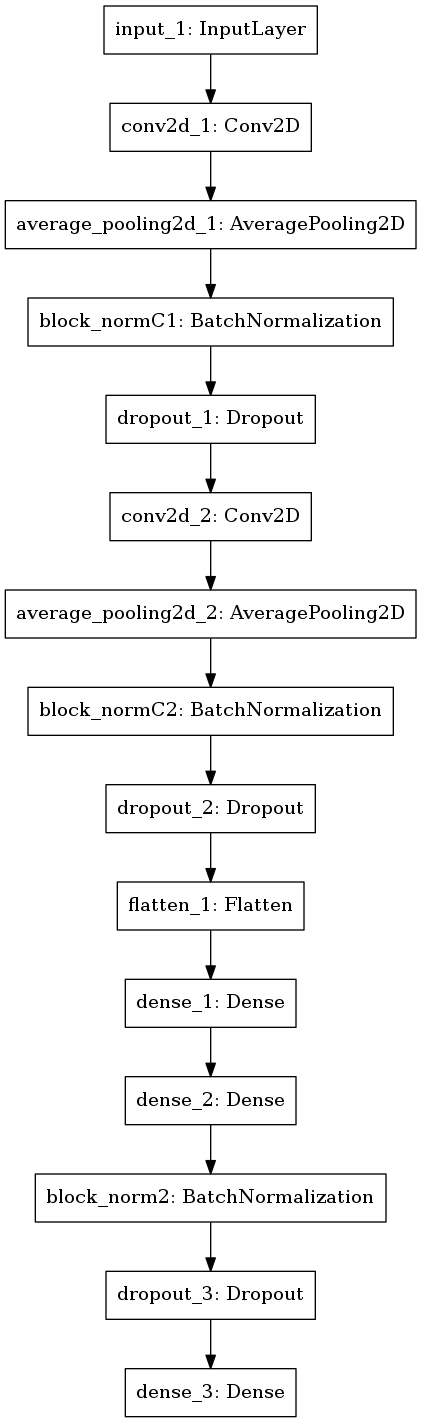
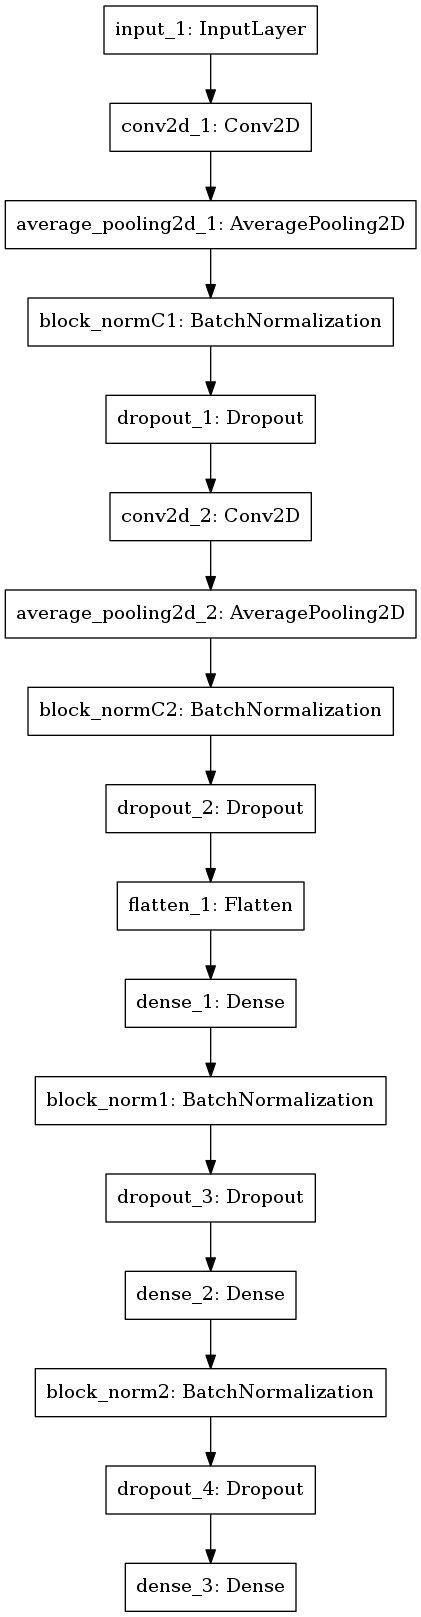
updates and changes

diff --git a/mnist_lenet5_class.py b/mnist_lenet5_class.py
@@ -25,9 +25,11 @@ def get_available_gpus():
 	local_device_protos = K.get_session().list_devices()
 	return np.array([x.name for x in local_device_protos if x.device_type == 'GPU'])
 
+def top_2_categorical_accuracy(y_true, y_pred):
+    return metrics.top_k_categorical_accuracy(y_true, y_pred, k=2) 
 
 batch_size = 32 # in each iteration, we consider 128 training examples at once
-num_epochs = 50 # we iterate twelve times over the entire training set
+num_epochs = 25 # we iterate twelve times over the entire training set
 num_epochs1 = 25 # epochs for the pre-training
 kernel_size = 3 # we will use 3x3 kernels throughout
 pool_size = 2 # we will use 2x2 pooling throughout
@@ -59,7 +61,7 @@ c_test = y_test
 y_train = np_utils.to_categorical(y_train, num_classes) # One-hot encode the labels
 y_test = np_utils.to_categorical(y_test, num_classes) # One-hot encode the labels
 
-reps = 11
+reps = 5
 ssplit = np.array([128,256,512,1024,3200,6400,60000]) # number of examples
 oweights = np.array([1,1,1,0.5,0.5,0.5,0.3])
 nsplit = ssplit.shape[0]
@@ -70,6 +72,13 @@ gpus = get_available_gpus().size
 #first model - number/finger association
 matrix_train = y_train
 matrix_test = y_test
+
+inp2 = Input(shape=(10,))
+out2 = Dense(num_classes, kernel_initializer='glorot_uniform', bias_initializer='zeros', activation='softmax', name='class_output2')(inp2) # Output softmax layer
+model2 = Model(inputs=inp2,outputs=out2)	
+model2.compile(loss='categorical_crossentropy',optimizer='adam',metrics=['accuracy'])
+model2.fit(matrix_train,y_train,epochs=5,shuffle=True,verbose=1)
+out_weights2 = model2.get_layer('class_output2').get_weights()
 
 for k in range(reps):
 
@@ -84,7 +93,7 @@ for k in range(reps):
 		matrix_split = matrix_train[(ssplit[i]*a):(ssplit[i]*(a+1))]
 		print('a=',a,'split = ',(ssplit[i]*a),'-',(ssplit[i]*(a+1)),' N = ',x_split.shape[0])
 		drop_prob_1 = 0.0
-		drop_prob_2 = 0.3
+		drop_prob_2 = 0.5
 
 		inp = Input(shape=(height, width, depth)) # N.B. TensorFlow back-end expects channel dimension last
 		o = Convolution2D(filters=6, kernel_size=(3, 3), padding='same', kernel_initializer='he_uniform', activation='relu')(inp)
@@ -97,33 +106,33 @@ for k in range(reps):
 		o = Dropout(drop_prob_1)(o)
 		o = Flatten()(o)
 		o2 = Dense(num_fingers, activation='softmax', kernel_initializer='glorot_uniform', name="fingers_inout")(o)
-
-		earlyStopping=keras.callbacks.EarlyStopping(monitor='loss', patience=3, verbose=1, mode='auto', restore_best_weights=True)
+		
 		model1 = Model(inputs=inp,outputs=o2)
 
-		model1.compile(loss='categorical_crossentropy',optimizer='adam')
-		model1.fit(x_split[:ssplit[i],:],matrix_split[:ssplit[i],:],
-			epochs=num_epochs1,shuffle=True,callbacks=[earlyStopping],
-			verbose=0)
+		model1.compile(loss='categorical_crossentropy',optimizer='adam',metrics=['mse'])
+		model1.fit(x_split,matrix_split,epochs=1,shuffle=True,verbose=0)
 
 		o = Dense(120, kernel_initializer='he_uniform', activation='relu')(o) # Hidden ReLU layer
 		o = Dropout(drop_prob_2, name="hidden_dropout1")(o)
 		o = Dense(84, kernel_initializer='he_uniform', activation='relu')(o) # Hidden ReLU layer
-		o = concatenate([o, o2],axis=1,name="concatenate") 
 		o = BatchNormalization(name='block_norm2')(o)
+		o = concatenate([o, o2],axis=1,name="concatenate") 
 		o = Dropout(drop_prob_2, name="hidden_dropout2")(o)
 		layerc = Dense(num_classes, kernel_initializer='glorot_uniform', activation='softmax', name='class_output')(o) # Output softmax layer
 
 		model = Model(inputs=[inp],outputs=[layerc,o2])
 		#plot_model(model)
-		for layer in model.layers:
-			if (hasattr(layer, 'rate')):
-				layer.rate = layer.rate+0.2 #incresases the dropout rate for the full model
 
 		model.compile(loss={"class_output": 'categorical_crossentropy', "fingers_inout": 'categorical_crossentropy'},
 			 		  loss_weights=[1,oweights[i]],
 					  optimizer='adam',
-					  metrics={"class_output": ['accuracy',acc_likelihood], "fingers_inout": ['mse']})
+					  metrics={"class_output": ['accuracy',top_2_categorical_accuracy,acc_likelihood], "fingers_inout": ['mse']})
+
+		hidden_size=84
+		out_weights = model.get_layer('class_output').get_weights()
+		out_weights[0][hidden_size:,:] = out_weights2[0]
+		out_weights[1] = out_weights2[1]
+		model.get_layer('class_output').set_weights(out_weights)
 
 		csv_logger = CSVLogger('./Logs/'+str(k)+'/training_class2_conv2d'+"{:03d}".format(i)+'.log')
 		history = model.fit([x_split], [y_split,matrix_split],
@@ -141,7 +150,8 @@ for k in range(reps):
 		print('Test finger loss:', score[i][2])
 		print('Test classification accuracy:', score[i][3])
 		print('Test classification likelihood:', score[i][4])
-		print('Test fingers mse:', score[i][5])
+		print('Test classification top2 acc:', score[i][5])
+		print('Test fingers mse:', score[i][6])
 		K.clear_session()
 		end = time.time()
 		print('Elapsed time', end-start)

diff --git a/mnist_lenet5_robot.py b/mnist_lenet5_robot.py
@@ -109,13 +109,10 @@ for k in range(reps):
 		o = Flatten()(o)
 		o2 = Dense(num_fingers, activation='sigmoid', bias_initializer='zeros',  kernel_initializer='glorot_uniform', name="fingers_inout")(o)
 
-		earlyStopping=keras.callbacks.EarlyStopping(monitor='loss', patience=3, verbose=1, mode='auto', restore_best_weights=True)
 		model1 = Model(inputs=inp,outputs=o2)
-
 		model1.compile(loss='binary_crossentropy',optimizer='rmsprop',metrics=['mse'])
-		model1.fit(x_split[:ssplit[i],:],matrix_split[:ssplit[i],:],
-			epochs=1,shuffle=True,callbacks=[earlyStopping],
-			verbose=0)
+		model1.compile(loss='categorical_crossentropy',optimizer='adam',metrics=['mse'])
+		model1.fit(x_split,matrix_split,epochs=1,shuffle=True,verbose=0)
 
 		o = Dense(120, kernel_initializer='he_uniform', activation='relu')(o) # Hidden ReLU layer
 		o = BatchNormalization(name='block_norm1')(o)
@@ -127,10 +124,6 @@ for k in range(reps):
 		layerc = Dense(num_classes, kernel_initializer='glorot_uniform', activation='softmax', name='class_output')(o) # Output softmax layer
 
 		model = Model(inputs=[inp],outputs=[layerc,o2])
-		# #plot_model(model)
-		# for layer in model.layers:
-		# 	if (hasattr(layer, 'rate')):
-		# 		layer.rate = layer.rate+0.2 #incresases the dropout rate for the full model
 
 		model.compile(loss={"class_output": 'categorical_crossentropy', "fingers_inout": 'binary_crossentropy'},
 			 		  loss_weights=[1,oweights[i]],
